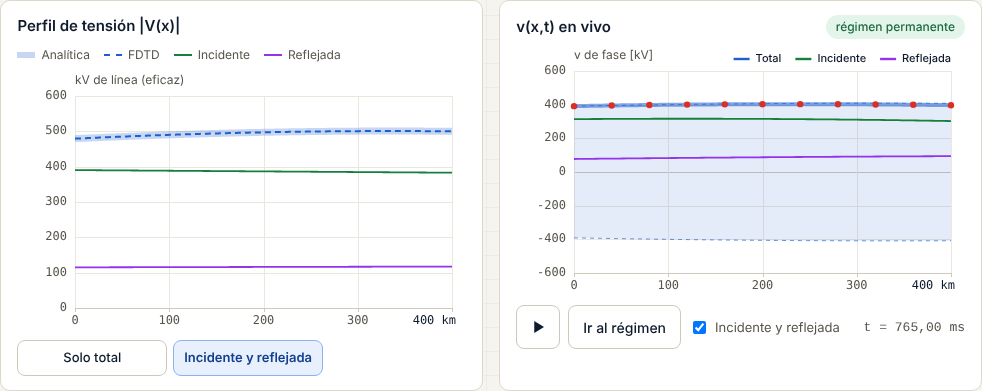
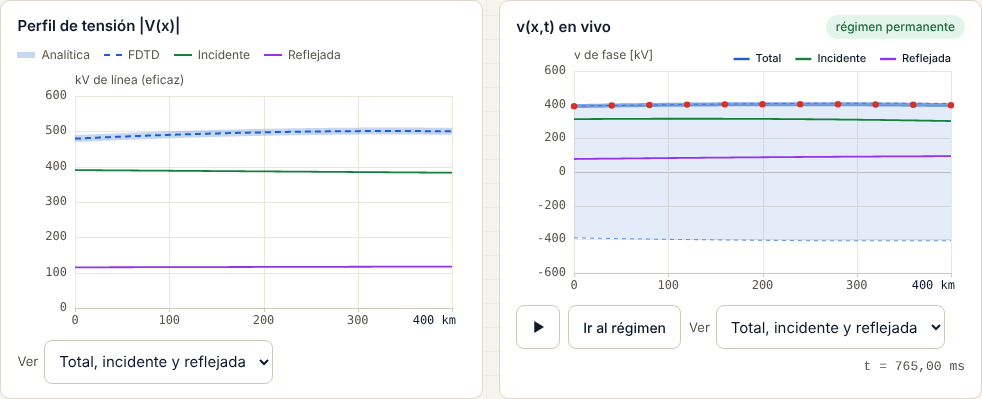
Vitrina: selector para ver la onda incidente y la reflejada juntas o por separado
Claude-Session: https://claude.ai/code/session_01Y8BDcqqBeNuuJ4XcJGWvje

diff --git a/README.md b/README.md
@@ -24,7 +24,7 @@ Una página web gratuita, pensada como material didáctico, donde cualquiera pue
 - **definir la carga:** por MVA y factor de potencia, por impedancia, o en circuito abierto, cortocircuito o adaptada;
 - **elegir la fuente:** senoidal a 50 o 60 Hz, con la tensión fijada en el envío o en la carga, onda cuadrada o pulso;
 - **ver la onda viajar y reflejarse** a lo largo de la línea, en tiempo real, con la solución analítica superpuesta;
-- **separar la onda incidente y la reflejada:** en la animación y en el perfil |V(x)| se ve qué parte de la tensión viaja hacia la carga y qué parte vuelve hacia la fuente;
+- **separar la onda incidente y la reflejada:** en la animación y en el perfil |V(x)| se ve qué parte de la tensión viaja hacia la carga y qué parte vuelve hacia la fuente, juntas, cada una sola o junto con la total;
 - **obtener los resultados de régimen:** tabla por fase y trifásica, pérdidas, rendimiento, regulación, efecto Ferranti y comparación con la potencia natural (SIL);
 - **medir α y β** sobre la simulación y compararlos con la teoría;
 - **exportar** la animación en video y las formas de onda en CSV.
@@ -44,6 +44,12 @@ La tensión en cada punto es la suma de una onda que viaja hacia la carga (**inc
 En régimen senoidal, el perfil |V(x)| muestra la incidente, la reflejada y la total que resulta de combinarlas:
 
 ![Perfil de tensión con onda incidente y reflejada](docs/perfil-ondas.png)
+
+Con el selector **Ver**, cada gráfico muestra lo que se quiera estudiar: la total, la incidente y la reflejada juntas, solo la total, la incidente y la reflejada sin la total, o cada una sola. Cada vista tiene su propia escala y, en régimen, su propia envolvente ±|V±(x)|.
+
+![Incidente y reflejada sin la tensión total](docs/sin-total.png)
+
+![Solo la onda reflejada: el pulso que vuelve desde la carga abierta](docs/solo-reflejada.png)
 
 ## Cómo funciona
 
@@ -134,7 +140,7 @@ An interactive, free web simulator of the **telegrapher's equations**, built as 
 - set line parameters with selectable units;
 - define the load in MVA and power factor;
 - choose a 50/60 Hz sine (with the voltage specified at the sending or receiving end), a square wave or a pulse;
-- watch waves travel and reflect, with the **incident and reflected waves** shown separately;
+- watch waves travel and reflect, with the **incident and reflected waves** shown together, one at a time, or with the total;
 - get steady-state tables, losses, regulation and the Ferranti effect;
 - measure the propagation constant α and β;
 - export videos.
